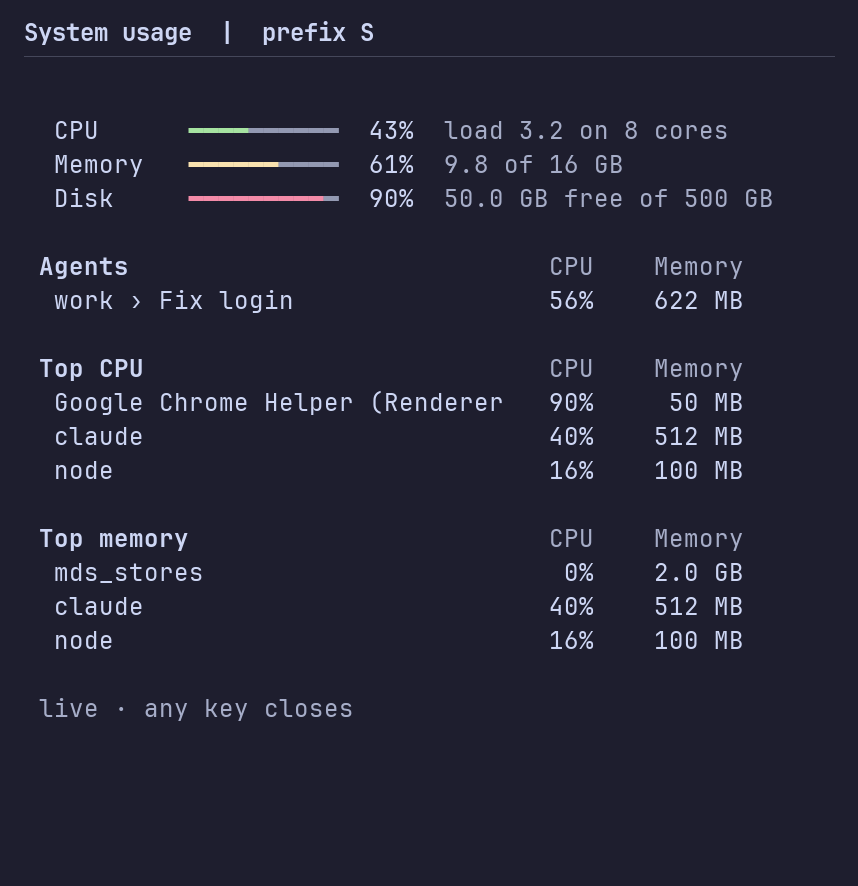
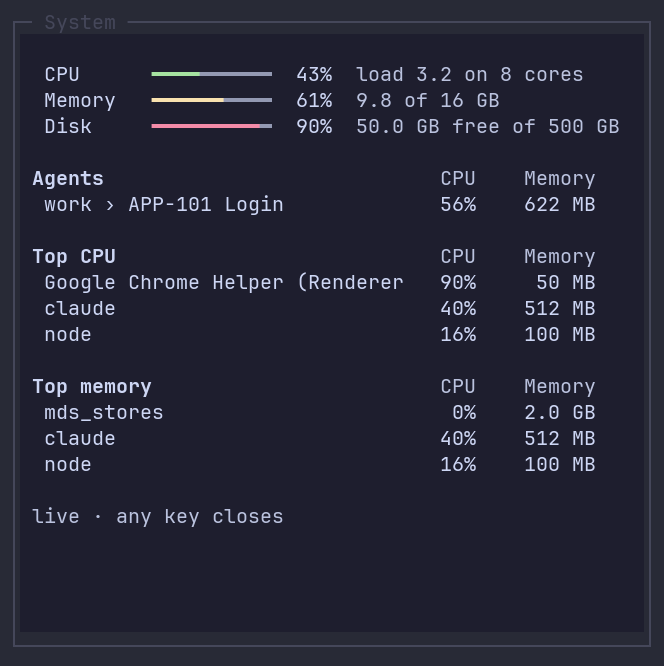
Match documentation captures to the running tmux views

diff --git a/docs/images/README.md b/docs/images/README.md
@@ -1,26 +1,29 @@
 # Terminal capture notes
 
-These PNGs render output from the project's terminal interfaces with sample
-data. They are terminal previews, not desktop screenshots. The added title
-above each capture identifies its view and shortcut. Colors use Catppuccin
-Mocha, and text uses JetBrains Mono.
+These PNGs capture the running tmux interfaces with sample task names, messages,
+and values. Terminal cells are rendered as PNGs with JetBrains Mono; these are
+not desktop screenshots. The captures preserve the actual popup borders,
+dimensions, labels, spacing, and source tags. There are no added title banners.
+Popups use Catppuccin Mocha over a Dracula terminal background.
 
 | Image | Source |
 | --- | --- |
 | [Session picker](session-picker.png) | The installed agent-skills `runs popup`, using an isolated SQLite registry and temporary tmux server |
 | [Session tree](session-tree.png) | The `prefix s` binding in [tmux.conf](../../tmux.conf), with sample sessions and pane activity |
 | [Agent status](agent-status.png) | The same server's status bar, showing all five activity colors and a waiting delivery run |
-| [Conversation logs](conversation-logs.png) | [tmux-agent-logs](../../bin/tmux-agent-logs) message and filter renderers, with sample main, subagent, and background output |
-| [Tab usage](tab-usage.png) | [tmux-agent-usage-popup](../../bin/tmux-agent-usage-popup), using the sample pane values from [agent-usage.sh](../../tests/agent-usage.sh) |
-| [Account usage](account-usage.png) | [tmux-ai-usage](../../bin/tmux-ai-usage), using temporary cached plan responses |
+| [Conversation logs](conversation-logs.png) | The running [tmux-agent-logs](../../bin/tmux-agent-logs) viewer, reading sample transcript and task files |
+| [Tab usage](tab-usage.png) | [tmux-agent-usage-popup](../../bin/tmux-agent-usage-popup) in its configured 36 by 14 popup, with sample Claude pane values |
+| [Account usage](account-usage.png) | [tmux-ai-usage](../../bin/tmux-ai-usage) in its configured 54 by 13 popup, with sample Claude monthly and daily spend and Codex weekly usage |
 | [System usage](system-usage.png) | [tmux-system-usage](../../bin/tmux-system-usage), using the sample process and machine values from [system-usage.sh](../../tests/system-usage.sh) |
 
 The tmux captures load the repository's bindings and formats with the installed
 Mocha palette. Plugin startup, automatic hooks, and live system polling are
-disabled in the temporary server. No agent conversations or account credentials
-are included.
+disabled in the temporary server. The account example follows the Spend, Today,
+and Weekly layout, using temporary cached responses with dummy values. No real
+conversations, account amounts, or credentials are included.
 
-When refreshing an image, run its interface with isolated sample data, preserve
-the terminal colors, and check that its shortcut and labels still match the
-docs. Keep account and system values synthetic. Check readability at the width
-used in the README or reference, and update the alt text if the example changes.
+When refreshing an image, run the full interface in tmux with isolated sample
+data. Match the account's displayed fields before replacing amounts and limits.
+Keep the configured popup size, borders, colors, and default controls. Use
+descriptive task names in the picker, tree, and tabs. Check readability at the
+width used in the docs, and update the alt text if the example changes.

diff --git a/README.md b/README.md
@@ -12,8 +12,8 @@ delivery phases, and sessions waiting for you. Type a row number to jump to it.
 
 ![Agent picker with waiting, failed, running, and finished sessions, plus colored tmux tabs](docs/images/session-picker.png)
 
-Images throughout these docs render real terminal output with sample data in
-Catppuccin Mocha. Titles above the captures identify the view and its shortcut.
+Images throughout these docs show tmux views with sample task names and values.
+Popup borders, sizes, labels, and spacing come from the running interfaces.
 See [capture notes](docs/images/README.md) for their sources.
 
 The reference also shows [conversation logs](docs/reference.md#conversation-logs),
@@ -65,6 +65,7 @@ Press your tmux prefix before the keys labeled `prefix`.
 | `prefix S` | Show CPU, memory, disk, and agent resource usage |
 | `prefix G` | Open Lazygit |
 | `prefix c` | Create a window in the current directory |
+| `prefix ,` | Rename the current window, for example `APP-101 Login` |
 | `prefix \|` / `prefix -` | Split horizontally / vertically |
 | `prefix h/j/k/l` | Move between panes |
 | `Option+Shift+Arrow` | Resize the current pane |
@@ -77,13 +78,16 @@ its PR, or `q` to close. Both picker shortcuts open the same view.
 `prefix s` opens the tmux tree. Expand a session to browse its windows and panes;
 the preview below the list shows the selected workspace.
 
-![Expanded work session with colored activity dots, a collapsed notes session, and window previews](docs/images/session-tree.png)
+![Expanded work session with numbered task names and colored activity dots, a collapsed docs session, and window previews](docs/images/session-tree.png)
 
 ## Reading agent status
 
 The tab's number block and the dots in `prefix s` show the agent's activity:
 
-![Yellow waiting, blue working, green finished, red failed, and gray ready tabs, with one waiting delivery run](docs/images/agent-status.png)
+![Task tabs APP-101 Login through APP-105 Settings showing yellow waiting, blue working, green finished, red failed, and gray ready states](docs/images/agent-status.png)
+
+Tabs can have descriptive task names. Use `prefix ,` to rename a window; its
+activity color still follows the agent in that window.
 
 | Color | Meaning |
 | --- | --- |

diff --git a/docs/reference.md b/docs/reference.md
@@ -2,7 +2,7 @@
 
 [Back to README](../README.md)
 
-Images show real terminal output rendered with sample data. See
+Images show the running terminal interfaces with sample task names and values. See
 [capture notes](images/README.md) for the source of each view.
 
 ## Conversation logs
@@ -59,7 +59,7 @@ terminal feature takes effect.
 `prefix T` groups usage by agent in the current tab, including cached tokens and
 the Codex usage limit when available.
 
-<img src="images/tab-usage.png" width="360" alt="Tab usage showing Claude and Codex token totals, cached tokens, cost, and the Codex five-hour limit">
+<img src="images/tab-usage.png" width="360" alt="Tab usage popup showing sample Claude cost, total tokens, and cached tokens">
 
 Claude's tab cost comes from its status-line payload. Codex's tab cost is an
 estimate at configured API prices, marked `~`; it is not the ChatGPT subscription
@@ -72,10 +72,11 @@ for Claude's tab usage to update.
 
 ### Account usage
 
-`prefix v` shows usage across each account. This example shows plan limits;
-accounts with spend-based billing show spend instead.
+`prefix v` shows usage across each account. This example shows Claude's monthly
+spend and today's spend in UTC, followed by Codex's weekly usage and reset time.
+All amounts and percentages are sample values.
 
-<img src="images/account-usage.png" width="540" alt="Claude and Codex account usage with five-hour and weekly progress bars and reset times">
+<img src="images/account-usage.png" width="540" alt="AI usage popup showing Claude Spend and Today rows, plus Codex Weekly usage and its reset time, with sample values">
 
 The account popup uses the agents' existing logins and caches responses for a
 minute. Press `r` to refresh. On failure, it retains the last values with their
